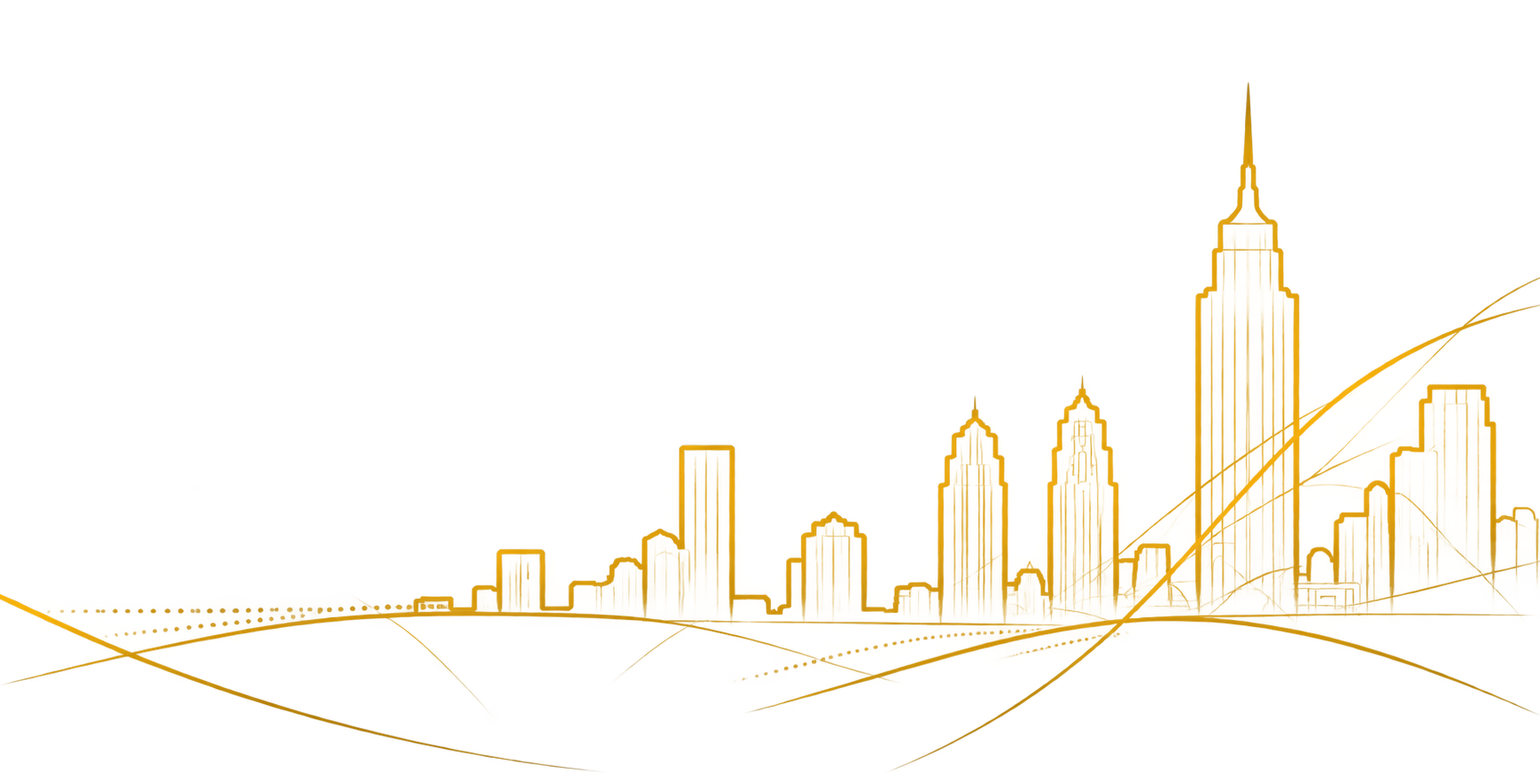
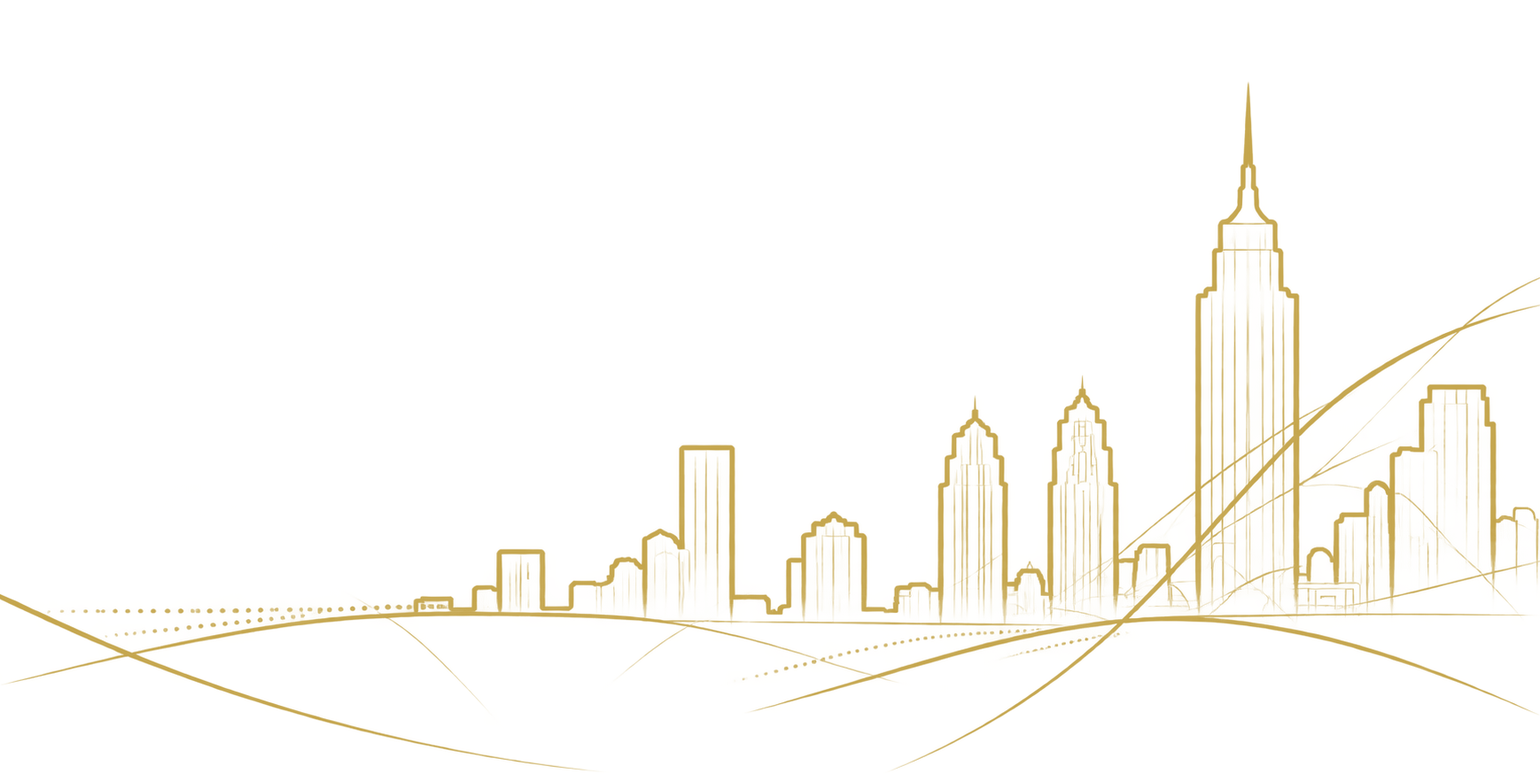
Add files via upload

diff --git a/daily-publication.css b/daily-publication.css
@@ -1,7 +1,7 @@
 /* IMPACTONE · 影响力·每日必读 — V3.1 SAMPLE-LED + FUNCTIONAL INTERACTIONS
    Visual priority: approved sample. PDF spec is secondary.
 */
-:root{--navy:#011C43;--gold:#C8A84B;--paper:#FFFFFF;--ink:#17191d;--muted:#77736c;--line:#ded8ce;--reader-size:17px;--publication-width:760px;--safe-bottom:env(safe-area-inset-bottom,0px)}
+:root{--navy:#001B40;--gold:#C3A348;--paper:#FFFFFF;--ink:#17191d;--muted:#77736c;--line:#ded8ce;--reader-size:17px;--publication-width:760px;--safe-bottom:env(safe-area-inset-bottom,0px)}
 *{box-sizing:border-box}html{background:#e8e6e0;scroll-behavior:smooth}body{margin:0;background:#e8e6e0;color:var(--ink);font-family:Arial,"PingFang SC","Microsoft YaHei",sans-serif;-webkit-font-smoothing:antialiased}body.io-panel-open{overflow:hidden}button,input,textarea{font:inherit}.page{width:min(100%,var(--publication-width));margin:0 auto;min-height:100vh;background:var(--paper);box-shadow:0 0 26px rgba(0,0,0,.08);padding-bottom:calc(68px + var(--safe-bottom));overflow:hidden}.content{padding:0}
 /* cover */
 .brand-block{position:relative;height:330px;padding:42px 42px 0;background:var(--navy);overflow:hidden;color:#fff}.impactone-wordmark{margin:0 0 18px;font-size:13px;line-height:1;letter-spacing:.10em;font-weight:400}.brand-title{margin:0;color:#fff;font-family:Georgia,"Songti SC","STSong",serif;font-size:39px;line-height:1.05;font-weight:700;font-style:italic;letter-spacing:.01em}.brand-subtitle{margin:20px 0 0;color:var(--gold);font-size:12px;font-weight:700;letter-spacing:.02em}.issue-date{position:absolute;left:42px;bottom:111px;color:#fff;font-size:10.5px;letter-spacing:.08em}.skyline{position:absolute;left:0;right:0;bottom:0;height:142px}.skyline svg{width:100%;height:100%;display:block}.skyline path,.skyline line,.skyline polyline{stroke:var(--gold);stroke-width:1.05;fill:none;vector-effect:non-scaling-stroke}.skyline .ground{stroke-width:1.15}.skyline .moon{fill:var(--gold);stroke:none}
@@ -18,7 +18,7 @@
 /* footer */
 .publication-footer{background:var(--navy);color:#fff;padding:38px 42px 102px}.footer-brands{display:grid;grid-template-columns:1fr 1fr;gap:24px;align-items:center}.footer-brand{text-align:left}.foundation{text-align:right}.footer-mark{font-family:Georgia,serif;font-size:19px;color:#fff;line-height:1}.footer-brands b{display:block;margin-top:6px;font-size:9px;font-weight:500}.footer-brands span{display:block;margin-top:4px;color:#dce2eb;font-size:8px}.share-line{margin:28px 0 23px;color:var(--gold);font-family:Georgia,"Songti SC","STSong",serif;font-size:18px;font-weight:700}.footer-info{display:flex;flex-direction:column;gap:4px;font-size:9px;line-height:1.75;color:#eef1f5}.footer-info b{font-size:10px}.footer-info a{color:#fff}.social-profiles{display:flex;flex-wrap:wrap;gap:12px;margin-top:14px}.social-profiles a{color:#dfe5ee;text-decoration:none;font-size:9px}.social-profiles a:hover{color:var(--gold)}.legal{margin-top:18px;color:#d8dee8;font-size:8px;line-height:1.6}.legal b{color:#fff;font-size:9px}.legal p{margin:5px 0 13px}
 /* fixed actions: always visible while reading, like a public-account action bar */
-.fixed-actions{position:fixed;z-index:1000;left:50%;bottom:0;transform:translateX(-50%);width:min(100%,var(--publication-width));height:calc(68px + var(--safe-bottom));padding-bottom:var(--safe-bottom);display:grid;grid-template-columns:repeat(4,1fr);background:var(--navy);border-top:1px solid rgba(200,168,75,.45);box-shadow:0 -5px 18px rgba(0,0,0,.16)}.fixed-actions button{position:relative;border:0;background:none;color:#fff;display:flex;align-items:center;justify-content:center;gap:6px;font-size:12px;cursor:pointer}.fixed-actions button.active{color:var(--gold)}.fixed-actions .ico{display:inline-flex;width:19px;height:19px;align-items:center;justify-content:center;font-size:19px}.fixed-actions .ico svg{width:19px;height:19px;stroke:currentColor;fill:none;stroke-width:1.65;stroke-linecap:round;stroke-linejoin:round}.fixed-actions small{position:absolute;top:8px;right:12px;min-width:14px;height:14px;padding:0 3px;border-radius:8px;background:var(--gold);color:var(--navy);font-size:8px;line-height:14px}.fixed-actions small:empty{display:none}
+.fixed-actions{position:fixed;z-index:1000;left:50%;bottom:0;transform:translateX(-50%);width:min(100%,var(--publication-width));height:calc(68px + var(--safe-bottom));padding-bottom:var(--safe-bottom);display:grid;grid-template-columns:repeat(4,1fr);background:var(--navy);border-top:1px solid rgba(195,163,72,.45);box-shadow:0 -5px 18px rgba(0,0,0,.16)}.fixed-actions button{position:relative;border:0;background:none;color:#fff;display:flex;align-items:center;justify-content:center;gap:6px;font-size:12px;cursor:pointer}.fixed-actions button.active{color:var(--gold)}.fixed-actions .ico{display:inline-flex;width:19px;height:19px;align-items:center;justify-content:center;font-size:19px}.fixed-actions .ico svg{width:19px;height:19px;stroke:currentColor;fill:none;stroke-width:1.65;stroke-linecap:round;stroke-linejoin:round}.fixed-actions small{position:absolute;top:8px;right:12px;min-width:14px;height:14px;padding:0 3px;border-radius:8px;background:var(--gold);color:var(--navy);font-size:8px;line-height:14px}.fixed-actions small:empty{display:none}
 /* overlays */
 .modal-backdrop{position:fixed;z-index:1200;inset:0;display:none;align-items:flex-end;justify-content:center;background:rgba(0,0,0,.56);padding:16px}.modal-backdrop.open{display:flex}.subscribe-modal,.share-modal{position:relative;width:min(460px,100%);padding:26px;background:var(--paper);border-top:3px solid var(--gold);box-shadow:0 -12px 40px rgba(0,0,0,.18)}.subscribe-modal h3,.share-modal h3{margin:0 32px 8px 0;color:var(--navy);font-family:Georgia,"Songti SC",serif;font-size:21px}.subscribe-modal p,.share-modal p{margin:0;color:#666;font-size:12px;line-height:1.6}.subscribe-modal form{display:grid;grid-template-columns:1fr auto;gap:8px;margin-top:17px}.subscribe-modal input,.comments-panel input,.comments-panel textarea{width:100%;border:1px solid #cfc8bb;border-radius:0;background:#fff;padding:11px}.subscribe-modal form button,.comments-panel form button{border:0;background:var(--navy);color:#fff;padding:11px 15px;font-weight:700;cursor:pointer}.modal-close,.panel-close{position:absolute;right:11px;top:8px;border:0;background:none;font-size:25px;color:#666;cursor:pointer}.share-grid{display:grid;grid-template-columns:repeat(4,1fr);gap:10px;margin-top:18px}.share-grid button,.share-grid a{border:1px solid #d8d1c5;background:transparent;color:var(--navy);padding:12px 5px;text-align:center;text-decoration:none;font-size:11px;cursor:pointer}.share-grid button:hover,.share-grid a:hover{border-color:var(--gold);color:var(--gold)}.wechat-hint{display:none;margin-top:13px;padding-top:12px;border-top:1px solid var(--line);color:#555;font-size:11px;line-height:1.6}.wechat-hint.show{display:block}.comments-panel{position:fixed;z-index:1190;left:50%;bottom:calc(68px + var(--safe-bottom));transform:translate(-50%,105%);width:min(100%,var(--publication-width));max-height:72vh;overflow:auto;background:var(--paper);padding:24px 26px;box-shadow:0 -10px 30px rgba(0,0,0,.18);border-top:3px solid var(--gold);transition:.2s}.comments-panel.open{transform:translate(-50%,0)}.panel-head{position:relative;margin:0 0 4px;color:var(--navy);font-family:Georgia,"Songti SC",serif;font-size:22px}.comment-prompt{margin:0 0 14px;color:#666;font-size:12px}.comments-panel form{display:grid;grid-template-columns:115px 1fr auto;gap:8px}.comments-panel textarea{min-height:46px;resize:vertical}.comment-item{padding:14px 0;border-bottom:1px solid var(--line);font-size:13px;line-height:1.65}.comment-meta{font-size:10px;color:#777}.comment-actions button{border:0;background:none;color:var(--navy);padding:5px 12px 5px 0;font-size:10px;cursor:pointer}.comment-pending{color:var(--gold);margin-left:6px}.io-toast{position:fixed;z-index:1400;left:50%;bottom:86px;transform:translate(-50%,10px);padding:9px 13px;background:#222;color:#fff;font-size:11px;opacity:0;pointer-events:none;transition:.18s}.io-toast.show{opacity:1;transform:translate(-50%,0)}
 @media(max-width:600px){body{background:var(--paper)}.page{box-shadow:none}.brand-block{height:300px;padding:32px 20px 0}.impactone-wordmark{font-size:10.5px;margin-bottom:13px}.brand-title{font-size:30px}.brand-subtitle{font-size:9.5px;margin-top:15px}.issue-date{left:20px;bottom:101px;font-size:8.5px}.skyline{height:133px}.font-tool{height:34px;padding:0 14px}.section-title{padding:18px 17px 16px;grid-template-columns:27px 1fr}.section-title h2{font-size:21px}.section-en{font-size:7.2px}.section-sub{font-size:8.2px}.story,.scan-item{margin:0 24px;padding:27px 0 25px}.story-number,.scan-number{font-size:16px;margin-bottom:10px}.story h3{font-size:20px;margin-bottom:12px}.scan-item h3{font-size:19px}.story p,.scan-item p,.daily-view p{font-size:var(--reader-size);line-height:1.72}.story figure{width:100%;margin:18px 0 16px}.view-section-title{padding:21px 19px 18px}.view-cn{font-size:21px}.view-en{font-size:7.8px}.daily-view{padding:26px 24px 30px}.view-title{font-size:21px}.product-value{padding:23px 18px 25px}.publication-footer{padding:29px 20px 98px}.share-line{font-size:16px}.comments-panel form{grid-template-columns:1fr auto}.comments-panel form input{grid-column:1/-1}.subscribe-modal form{grid-template-columns:1fr}.share-grid{grid-template-columns:repeat(2,1fr)}}
@@ -89,7 +89,7 @@ html,body{overflow-x:hidden}
   opacity:1!important;
   pointer-events:auto!important;
   background:var(--navy)!important;
-  border-top:1px solid rgba(200,168,75,.62)!important;
+  border-top:1px solid rgba(195,163,72,.62)!important;
   box-shadow:0 -3px 12px rgba(0,0,0,.18)!important;
 }
 .fixed-actions button{min-width:0;height:var(--action-h);padding:0 4px!important;color:#fff!important;font-family:Georgia,"Songti SC","STSong",serif;font-size:15px!important;font-weight:700!important;gap:6px!important;-webkit-tap-highlight-color:transparent}
@@ -128,8 +128,8 @@ html,body{overflow-x:hidden}
 @media(max-width:600px){.skyline .city{stroke-width:.82}.skyline .empire{stroke-width:.92}.skyline .ground{stroke-width:.82}}
 
 /* V3.5 — approved-sample header skyline + scan body position */
-.skyline .perspective{stroke:rgba(200,168,75,.48);stroke-width:.55;fill:none;vector-effect:non-scaling-stroke}
-.skyline .perspective-2{stroke:rgba(200,168,75,.34)}
+.skyline .perspective{stroke:rgba(195,163,72,.48);stroke-width:.55;fill:none;vector-effect:non-scaling-stroke}
+.skyline .perspective-2{stroke:rgba(195,163,72,.34)}
 .scan-details{margin:4px 0 12px}
 .scan-details summary{padding:4px 0 2px}
 .scan-details .scan-body{margin-top:10px}
@@ -143,11 +143,11 @@ html,body{overflow-x:hidden}
 .skyline .empire{stroke-width:.94}
 .skyline .empire-crown{stroke-width:.82}
 .skyline .ground{stroke:var(--gold);stroke-width:.84;fill:none;vector-effect:non-scaling-stroke}
-.skyline .perspective{stroke:rgba(200,168,75,.44);stroke-width:.5;fill:none;vector-effect:non-scaling-stroke}
-.skyline .perspective-2{stroke:rgba(200,168,75,.31)}
+.skyline .perspective{stroke:rgba(195,163,72,.44);stroke-width:.5;fill:none;vector-effect:non-scaling-stroke}
+.skyline .perspective-2{stroke:rgba(195,163,72,.31)}
 .font-tool{gap:1px;padding-right:24px;color:#8b877f;font-size:11px}
 .font-tool button{min-width:28px;min-height:28px;padding:4px 7px;border-radius:0;color:#8b877f;font-size:11px;line-height:1;cursor:pointer}
-.font-tool button:hover,.font-tool button:focus-visible{color:var(--navy);outline:1px solid rgba(200,168,75,.45);outline-offset:-2px}
+.font-tool button:hover,.font-tool button:focus-visible{color:var(--navy);outline:1px solid rgba(195,163,72,.45);outline-offset:-2px}
 .font-tool button.active{color:var(--gold);font-weight:700}
 .story figure img{display:block;width:100%;height:auto;image-rendering:auto;filter:contrast(1.015) saturate(1.015)}
 @media(max-width:600px){
@@ -161,7 +161,7 @@ html,body{overflow-x:hidden}
 .skyline img{position:absolute;left:0;right:0;bottom:0;width:100%;height:100%;object-fit:fill;display:block;pointer-events:none}
 /* We intentionally use the approved sample artwork rather than re-drawing the buildings in SVG. */
 .font-tool{position:relative;z-index:3}
-.wechat-share-hint{display:none;margin-top:12px;padding:10px 12px;border:1px solid rgba(200,168,75,.35);background:#fffaf0;color:#665d50;font-size:11px;line-height:1.55}
+.wechat-share-hint{display:none;margin-top:12px;padding:10px 12px;border:1px solid rgba(195,163,72,.35);background:#fffaf0;color:#665d50;font-size:11px;line-height:1.55}
 .wechat-share-hint.show{display:block}
 @media(max-width:600px){
   .skyline{height:142px}
@@ -262,10 +262,10 @@ html,body{overflow-x:hidden}
 }
 .publication-footer .impactone-logo{width:min(260px,72%);height:auto;max-height:none;object-fit:contain;background:transparent!important}
 .story figure img[src*="sample-oil-clear"]{width:100%;height:auto;display:block;object-fit:contain;image-rendering:auto}
-.notification-optin{position:fixed;left:50%;bottom:78px;transform:translateX(-50%);z-index:1200;width:min(92vw,620px);background:#f7f4ee;border-top:3px solid #C8A84B;box-shadow:0 8px 28px rgba(0,0,0,.24);padding:15px 82px 15px 18px;color:#011c43}
+.notification-optin{position:fixed;left:50%;bottom:78px;transform:translateX(-50%);z-index:1200;width:min(92vw,620px);background:#f7f4ee;border-top:3px solid #c3a348;box-shadow:0 8px 28px rgba(0,0,0,.24);padding:15px 82px 15px 18px;color:#001b40}
 .notification-optin:not([hidden]){display:block}
 .notification-optin strong,.notification-optin span{display:block}.notification-optin strong{font-size:16px;margin-bottom:3px}.notification-optin span{font-size:13px;color:#555}
-.notification-optin #enableNotificationButton{position:absolute;right:38px;top:50%;transform:translateY(-50%);border:0;background:#011c43;color:#fff;padding:9px 13px;font-weight:700;cursor:pointer}
+.notification-optin #enableNotificationButton{position:absolute;right:38px;top:50%;transform:translateY(-50%);border:0;background:#001b40;color:#fff;padding:9px 13px;font-weight:700;cursor:pointer}
 .notification-optin-close{position:absolute;right:8px;top:7px;border:0;background:transparent;color:#777;font-size:20px;cursor:pointer}
 @media(max-width:640px){
  .brand-block .header-impactone-wordmark{left:18px;top:25px;font-size:12px;letter-spacing:.2em}
@@ -288,7 +288,7 @@ html,body{overflow-x:hidden}
   min-height:0!important;
   padding:0!important;
   overflow:hidden!important;
-  background:#011c43!important;
+  background:#001b40!important;
 }
 .header-impactone-wordmark{
   position:absolute!important;
@@ -324,7 +324,7 @@ html,body{overflow-x:hidden}
   left:10.0%!important;
   top:45.9%!important;
   margin:0!important;
-  color:#C8A84B!important;
+  color:#c3a348!important;
   font-size:clamp(5.8px,3.0vw,17px)!important;
   line-height:1.1!important;
   font-weight:700!important;
@@ -387,9 +387,9 @@ html,body{overflow-x:hidden}
 /* V3.16 — approved sample pixel-match pass (sample image is final authority)
    Scope: typography/spacing, navy backgrounds, skyline artwork. Interactions unchanged. */
 :root{
-  --navy:#011C43;
+  --navy:#001B40;
   --paper:#FFFFFF;
-  --gold:#C8A84B;
+  --gold:#C3A348;
   --ink:#17191d;
   --reader-size:15px;
 }
@@ -398,7 +398,7 @@ body{background:#e8e6e0;color:var(--ink);font-family:Arial,"PingFang SC","Micros
 .page{background:#fff}
 
 /* Exact cover structure and dark navy from the approved image. */
-.brand-block{background:#011C43!important}
+.brand-block{background:#001B40!important}
 .header-impactone-wordmark{
   font-family:Arial,Helvetica,sans-serif!important;
   font-weight:400!important;
@@ -409,14 +409,14 @@ body{background:#e8e6e0;color:var(--ink);font-family:Arial,"PingFang SC","Micros
   font-weight:700!important;
   font-style:italic!important;
 }
-.brand-subtitle{color:#C8A84B!important;font-family:Arial,"PingFang SC","Microsoft YaHei","Noto Sans CJK SC",sans-serif!important}
+.brand-subtitle{color:#C3A348!important;font-family:Arial,"PingFang SC","Microsoft YaHei","Noto Sans CJK SC",sans-serif!important}
 .issue-date{font-family:Arial,"PingFang SC","Microsoft YaHei","Noto Sans CJK SC",sans-serif!important}
 .skyline.skyline-original>img{width:100%!important;height:auto!important;bottom:0!important;transform:none!important;filter:none!important}
 
 /* All navy publication blocks use the same approved deep navy. */
-.section-title,.view-section-title,.publication-footer,.fixed-actions{background:#011C43!important}
-.story h3,.scan-item h3,.view-title,.label{color:#011C43!important}
-.story-number,.scan-number,.section-en,.view-en,.share-line,.product-value strong{color:#C8A84B!important}
+.section-title,.view-section-title,.publication-footer,.fixed-actions{background:#001B40!important}
+.story h3,.scan-item h3,.view-title,.label{color:#001B40!important}
+.story-number,.scan-number,.section-en,.view-en,.share-line,.product-value strong{color:#C3A348!important}
 
 /* Typography families from top to bottom. */
 .section-title h2,.view-cn,.view-title,.story h3,.scan-item h3,.share-line,.product-value strong{
@@ -538,7 +538,7 @@ body{background:#e8e6e0;color:var(--ink);font-family:Arial,"PingFang SC","Micros
   .legal{font-size:7.5px!important;line-height:1.55!important}
   .legal p{margin:5px 0 12px!important}
 
-  .fixed-actions{background:#011C43!important}
+  .fixed-actions{background:#001B40!important}
 }
 
 /* V3.16 layout/icon update — 2026-09-06

diff --git a/daily/2026-08-19.html b/daily/2026-08-19.html
@@ -1,4 +1,4 @@
-<!doctype html><html lang="zh-CN"><head><meta charset="utf-8"><meta name="viewport" content="width=device-width,initial-scale=1"><title>影响力·每日必读｜2026年9月1日｜IMPACTONE</title><meta name="description" content="影响力·每日必读。筛选全球资讯，把握天下大势。每天5分钟，看懂真正重要的变化。"><link rel="canonical" href="https://www.impactone.news/daily/2026-08-19.html"><meta property="og:type" content="article"><meta property="og:site_name" content="IMPACTONE"><meta property="og:title" content="影响力·每日必读｜2026年9月1日"><meta property="og:description" content="筛选全球资讯，把握天下大势。每天5分钟，看懂真正重要的变化。"><meta property="og:url" content="https://www.impactone.news/daily/2026-08-19.html"><meta property="og:image" content="https://www.impactone.news/images/daily/2026-08-19-share.png"><meta property="og:image:secure_url" content="https://www.impactone.news/images/daily/2026-08-19-share.png"><meta property="og:image:type" content="image/png"><meta property="og:image:alt" content="影响力·每日必读｜2026年9月1日"><meta property="og:image:width" content="1200"><meta property="og:image:height" content="630"><meta name="twitter:card" content="summary_large_image"><meta name="twitter:title" content="影响力·每日必读｜2026年9月1日"><meta name="twitter:description" content="筛选全球资讯，把握天下大势。每天5分钟，看懂真正重要的变化。"><meta name="twitter:image" content="https://www.impactone.news/images/daily/2026-08-19-share.png"><link rel="manifest" href="../manifest.webmanifest"><meta name="theme-color" content="#011C43"><meta name="apple-mobile-web-app-capable" content="yes"><meta name="apple-mobile-web-app-status-bar-style" content="default"><meta name="apple-mobile-web-app-title" content="每日必读"><link rel="apple-touch-icon" href="../images/brand/impactone-icon-192.png"><link rel="stylesheet" href="../daily-publication.css"><script src="../impactone-config.js" defer></script><script src="../daily-interactions.js" defer></script></head><body><main class="page"><div class="content">
+<!doctype html><html lang="zh-CN"><head><meta charset="utf-8"><meta name="viewport" content="width=device-width,initial-scale=1"><title>影响力·每日必读｜2026年9月1日｜IMPACTONE</title><meta name="description" content="影响力·每日必读。筛选全球资讯，把握天下大势。每天5分钟，看懂真正重要的变化。"><link rel="canonical" href="https://www.impactone.news/daily/2026-08-19.html"><meta property="og:type" content="article"><meta property="og:site_name" content="IMPACTONE"><meta property="og:title" content="影响力·每日必读｜2026年9月1日"><meta property="og:description" content="筛选全球资讯，把握天下大势。每天5分钟，看懂真正重要的变化。"><meta property="og:url" content="https://www.impactone.news/daily/2026-08-19.html"><meta property="og:image" content="https://www.impactone.news/images/daily/2026-08-19-share.png"><meta property="og:image:secure_url" content="https://www.impactone.news/images/daily/2026-08-19-share.png"><meta property="og:image:type" content="image/png"><meta property="og:image:alt" content="影响力·每日必读｜2026年9月1日"><meta property="og:image:width" content="1200"><meta property="og:image:height" content="630"><meta name="twitter:card" content="summary_large_image"><meta name="twitter:title" content="影响力·每日必读｜2026年9月1日"><meta name="twitter:description" content="筛选全球资讯，把握天下大势。每天5分钟，看懂真正重要的变化。"><meta name="twitter:image" content="https://www.impactone.news/images/daily/2026-08-19-share.png"><link rel="manifest" href="../manifest.webmanifest"><meta name="theme-color" content="#001B40"><meta name="apple-mobile-web-app-capable" content="yes"><meta name="apple-mobile-web-app-status-bar-style" content="default"><meta name="apple-mobile-web-app-title" content="每日必读"><link rel="apple-touch-icon" href="../images/brand/impactone-icon-192.png"><link rel="stylesheet" href="../daily-publication.css"><script src="../impactone-config.js" defer></script><script src="../daily-interactions.js" defer></script></head><body><main class="page"><div class="content">
 <header class="brand-block"><div class="header-impactone-wordmark">IMPACTONE</div><h1 class="brand-title">影响力·今日必读</h1><p class="brand-subtitle">筛选全球资讯，把握天下大势。</p><div class="issue-date">2026年9月1日　纽约　第001期</div><div class="skyline skyline-original" aria-hidden="true"><img src="../images/daily/impactone-skyline-20260906.png" alt=""></div></header>
 <div class="font-tool" aria-label="字号设置">字号 <button data-font="small">小</button><button class="active" data-font="medium">中</button><button data-font="large">大</button></div>
 <section><header class="section-title"><img class="section-icon-img focus-icon" src="../images/daily/ui/focus-icon.png" alt="" aria-hidden="true"><h2>今日焦点 <span class="section-en">DAILY FOCUS</span></h2><div class="section-sub">4件事，看懂今天最重要的变化</div></header><article class="story"><div class="story-number">01｜</div><h3>美伊冲突伊朗，国际油价大涨</h3><p>9月1日，美军对伊朗目标发动新一轮打击；国际油价8月31日在美伊冲突进一步升级后大幅上涨。与此同时，美国8月就业与通胀数据继续成为市场关注重点，全球风险资产波动加大。</p><figure><img src="../images/daily/sample-oil-clean-v315.png" alt="夕阳下的石油抽油机"/><figcaption>图｜霍尔木兹海峡相关油轮航运。图片来源：Reuters</figcaption></figure><p class="analysis"><span class="label">观察｜</span><br>如果这类冲突开始显著影响能源运输和企业成本，保险公司的定价逻辑可能需要重新评估——真正被改写的或许并不是短期油价，而是能源供应链本身的可控性。</p></article><article class="story"><div class="story-number">02｜</div><h3>美国国债收益率进一步走高，国债规模已突破40万亿美元</h3><p>美国10年期国债收益率9月1日盘中继续走高。与此同时，美国联邦债务规模继续处于历史高位，长期利率和财政可持续性再次成为市场讨论焦点。</p><p class="analysis"><span class="label">观察｜</span><br>40万亿美元的国债规模本身可能正在成为影响市场资本价格的结构性变量——不只是利率周期问题，也可能是期限溢价和风险定价问题。</p></article><article class="story"><div class="story-number">03｜</div><h3>中国8月官方PMI明升但仍处收缩区间，企业规模分化明显</h3><p>8月官方制造业PMI为49.8%，环比上月小幅改善，但仍低于50的荣枯线；大型企业PMI高于50，中小企业仍承压，市场对后续政策支持保持关注。</p><p class="analysis"><span class="label">观察｜</span><br>大企业已经回到扩张区间，中型企业仍在收缩——这种分化本身，可能比PMI总量数字更值得企业持续观察。</p></article></section>

diff --git a/daily-template.html b/daily-template.html
@@ -1,4 +1,4 @@
-<!doctype html><html lang="zh-CN"><head><meta charset="utf-8"><meta name="viewport" content="width=device-width,initial-scale=1"><meta property="og:type" content="article"><meta property="og:site_name" content="IMPACTONE"><meta property="og:title" content="影响力·每日必读"><meta property="og:description" content="筛选全球资讯，把握天下大势。每天5分钟，看懂真正重要的变化。"><meta property="og:image" content="https://www.impactone.news/images/daily/2026-08-19-share.png"><meta property="og:image:secure_url" content="https://www.impactone.news/images/daily/2026-08-19-share.png"><meta property="og:image:type" content="image/png"><meta property="og:image:alt" content="影响力·每日必读｜2026年9月1日"><meta name="twitter:card" content="summary_large_image"><title>影响力·每日必读｜IMPACTONE</title><meta name="description" content="影响力·每日必读。筛选全球资讯，把握天下大势。"><link rel="manifest" href="manifest.webmanifest"><meta name="theme-color" content="#011C43"><meta name="apple-mobile-web-app-capable" content="yes"><meta name="apple-mobile-web-app-status-bar-style" content="default"><meta name="apple-mobile-web-app-title" content="每日必读"><link rel="apple-touch-icon" href="images/brand/impactone-icon-192.png"><link rel="stylesheet" href="daily-publication.css"><script src="impactone-config.js" defer></script><script src="daily-interactions.js" defer></script></head><body><main class="page"><div class="content">
+<!doctype html><html lang="zh-CN"><head><meta charset="utf-8"><meta name="viewport" content="width=device-width,initial-scale=1"><meta property="og:type" content="article"><meta property="og:site_name" content="IMPACTONE"><meta property="og:title" content="影响力·每日必读"><meta property="og:description" content="筛选全球资讯，把握天下大势。每天5分钟，看懂真正重要的变化。"><meta property="og:image" content="https://www.impactone.news/images/daily/2026-08-19-share.png"><meta property="og:image:secure_url" content="https://www.impactone.news/images/daily/2026-08-19-share.png"><meta property="og:image:type" content="image/png"><meta property="og:image:alt" content="影响力·每日必读｜2026年9月1日"><meta name="twitter:card" content="summary_large_image"><title>影响力·每日必读｜IMPACTONE</title><meta name="description" content="影响力·每日必读。筛选全球资讯，把握天下大势。"><link rel="manifest" href="manifest.webmanifest"><meta name="theme-color" content="#001B40"><meta name="apple-mobile-web-app-capable" content="yes"><meta name="apple-mobile-web-app-status-bar-style" content="default"><meta name="apple-mobile-web-app-title" content="每日必读"><link rel="apple-touch-icon" href="images/brand/impactone-icon-192.png"><link rel="stylesheet" href="daily-publication.css"><script src="impactone-config.js" defer></script><script src="daily-interactions.js" defer></script></head><body><main class="page"><div class="content">
 <header class="brand-block"><div class="header-impactone-wordmark">IMPACTONE</div><h1 class="brand-title">影响力·今日必读</h1><p class="brand-subtitle">筛选全球资讯，把握天下大势。</p><div class="issue-date">2026年9月1日　纽约　第001期</div><div class="skyline skyline-original" aria-hidden="true"><img src="images/daily/impactone-skyline-20260906.png" alt=""></div></header>
 <div class="font-tool" aria-label="字号设置">字号 <button data-font="small">小</button><button class="active" data-font="medium">中</button><button data-font="large">大</button></div>
 <section><header class="section-title"><img class="section-icon-img focus-icon" src="images/daily/ui/focus-icon.png" alt="" aria-hidden="true"><h2>今日焦点 <span class="section-en">DAILY FOCUS</span></h2><div class="section-sub">4件事，看懂今天最重要的变化</div></header><article class="story"><div class="story-number">01｜</div><h3>美伊冲突伊朗，国际油价大涨</h3><p>9月1日，美军对伊朗目标发动新一轮打击；国际油价8月31日在美伊冲突进一步升级后大幅上涨。与此同时，美国8月就业与通胀数据继续成为市场关注重点，全球风险资产波动加大。</p><figure><img src="images/daily/sample-oil-clean-v315.png" alt="夕阳下的石油抽油机"/><figcaption>图｜霍尔木兹海峡相关油轮航运。图片来源：Reuters</figcaption></figure><p class="analysis"><span class="label">观察｜</span><br>如果这类冲突开始显著影响能源运输和企业成本，保险公司的定价逻辑可能需要重新评估——真正被改写的或许并不是短期油价，而是能源供应链本身的可控性。</p></article><article class="story"><div class="story-number">02｜</div><h3>美国国债收益率进一步走高，国债规模已突破40万亿美元</h3><p>美国10年期国债收益率9月1日盘中继续走高。与此同时，美国联邦债务规模继续处于历史高位，长期利率和财政可持续性再次成为市场讨论焦点。</p><p class="analysis"><span class="label">观察｜</span><br>40万亿美元的国债规模本身可能正在成为影响市场资本价格的结构性变量——不只是利率周期问题，也可能是期限溢价和风险定价问题。</p></article><article class="story"><div class="story-number">03｜</div><h3>中国8月官方PMI明升但仍处收缩区间，企业规模分化明显</h3><p>8月官方制造业PMI为49.8%，环比上月小幅改善，但仍低于50的荣枯线；大型企业PMI高于50，中小企业仍承压，市场对后续政策支持保持关注。</p><p class="analysis"><span class="label">观察｜</span><br>大企业已经回到扩张区间，中型企业仍在收缩——这种分化本身，可能比PMI总量数字更值得企业持续观察。</p></article></section>

diff --git a/service-worker.js b/service-worker.js
@@ -1,4 +1,4 @@
-const CACHE='impactone-daily-v317-champagne-gold-c8a84b-20260907';
+const CACHE='impactone-daily-v317-sample-colors-20260907';
 const STATIC=[
   '/daily-publication.css','/daily-interactions.js','/impactone-config.js','/manifest.webmanifest',
   '/images/brand/impactone-icon-192.png','/images/brand/impactone-icon-512.png',
@@ -80,3 +80,5 @@ self.addEventListener('notificationclick',event=>{
 // V3.17.14 mobile footer + oil caption cache bump
 
 // V3.17.15 mobile upper rail + FAEF vertical + oil caption cache bump
+
+// V3.17.16 sample colors: navy #001B40, gold #C3A348

diff --git a/styles.css b/styles.css
@@ -15,7 +15,7 @@
   --navy-2: #0c2b50;
   --navy-3: #11385e;
 
-  --gold: #C8A84B;
+  --gold: #c6a15b;
   --gold-soft: #dec794;
 
   --paper: #f5f2eb;

diff --git a/README-V3.17.16-SAMPLE-COLORS.md b/README-V3.17.16-SAMPLE-COLORS.md
@@ -1,0 +1,11 @@
+# V3.17.16 — Sample Color Match
+
+Only the IMPACTONE daily publication color system was changed to match the approved sample image.
+
+- Navy: `#001B40`
+- Gold: `#C3A348`
+- Updated CSS/HTML theme color references and gold rgba lines.
+- Recolored the currently used skyline and Daily Focus / Daily Scan / IMPACTONE View graphic assets to the same sample gold.
+- Updated the share image navy/gold treatment.
+- Bumped the service-worker cache key so old colors are not retained.
+- Layout, spacing, typography, footer alignment, mobile/desktop responsive rules, oil caption alignment, and all interactions were otherwise left unchanged.

diff --git a/README-V3.16.md b/README-V3.16.md
@@ -1,7 +1,7 @@
 # IMPACTONE V3.16 — Approved Sample Match
 
 - Approved long-form sample image is the final visual authority.
-- Deep navy unified to `#011C43` across cover, section bars, insight, footer and fixed actions.
+- Deep navy unified to `#001B40` across cover, section bars, insight, footer and fixed actions.
 - Mobile typography and spacing recalibrated from top to bottom to match the supplied sample.
 - Story column narrowed to the sample proportions.
 - 今日洞见 title moved into the navy insight header, as shown in the sample.
